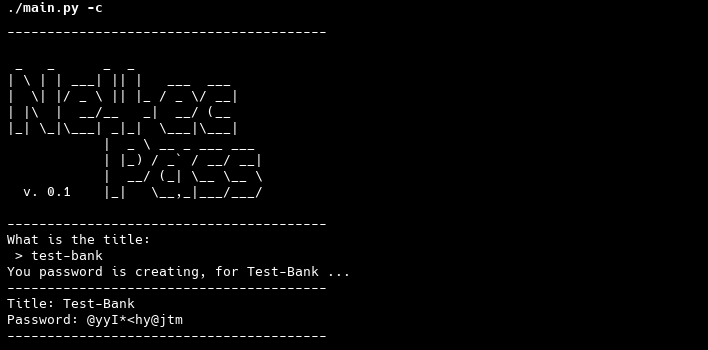
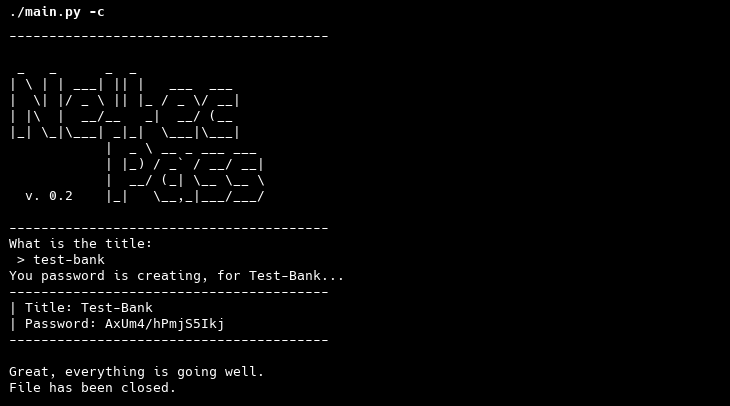
uploade v0.2

diff --git a/main.py b/main.py
@@ -1,64 +1,74 @@
 #!/bin/python3
  
 import random
-import time
-import sys
+from time import sleep
+import argparse
 
 from logo import logo
 from password_storage import *
 
-def show_option():
-    return r"""
-    SYNOPSIS 
-        ./main.py [OPTIONS]
-    
-    DISCRIPTION
-        Ne4ecPass is a simple password manager that stores entries as (Name, Password) pairs.
-        Data is stored in a basic backend (not encrypted)!
-        This project was created by Ne4ec as a hobby. For more info, visit: https://github.com/Ne4ec/Ne4ecPass
-        ⚠ IMPORTANT: Do *not* use this tool to store real passwords.
-        It lacks encryption and security measures. Use a trusted, professional password manager instead.
-    
-    OPTIONS
-        -a,    show all stored name and password pairs
-        -c,    create a new entry with specified name
-        -h,    show this help message and exit
-    """
-
 def display_view(content):
-    print(40 * '-')
-    print(f"{content}")
-    print(40 * '-')
+    return 40 * '-' + f"\n{content}\n" + 40 * '-'
     
-def password_generator():
+def password_generator(length=15): # default value, the user could change it
     ascii_characters = "ABCDEFGHIJKLMNOPQRSTUVWXYZabcdefghijklmnopqrstuvwxyz123456789!§$@€&/#*<>[]()"
     password = []
-    for _ in range(12):
+    for _ in range(length):
         password.append(random.choice(ascii_characters))
     
     return ''.join(password)
 
+def successful_commend():
+    print("\nGreat, everything is going well.\nFile has been closed.")
+
 if __name__ == "__main__":
+    parser = argparse.ArgumentParser(
+    description =(
+        "Ne4ecPass is a simple password manager that stores entries as (Name, Password) pairs. "
+        "Data is stored in a basic backend (not encrypted). "
+        "This project was created by Ne4ec as a hobby. For more info, visit: https://github.com/ne4ec/PassNe4ec\n\n"
+        "⚠ IMPORTANT: Do *not* use this tool to store real passwords. "
+        "It lacks encryption and security measures. Use a trusted, professional password manager instead."))
+    
+    parser.add_argument("-a", "--all", action="store_true", help="show all Stored name and password pairs")
+    parser.add_argument("-c", "--create", action="store_true", help="create a new entry with specified name")
+    parser.add_argument("-cp", "--count-password", action="store_true", help="Display the number of passwords stored in the backend")
+    parser.add_argument("-g", "--get-a-password", action="store_true", help="show password by the specified name")
 
-    display_view(logo)
-    user_option = sys.argv
+    print(display_view(logo))
 
-    if (len(user_option) != 2):
-        print(show_option())
-    else:
-        if user_option[1] == "-a":
-            with open("password_storage.py", 'r') as password_storage_file:
-                all_passwords = password_storage_file.read()
-                print(all_passwords)
-        elif user_option[1] == "-c":
-            with open("password_storage.py", 'a') as password_storage_file:
+    args = parser.parse_args()
+    if args.all:
+        print("Here are all the title and password pairs:\n" + 40 * '-')
+        
+        for pair in npm.password.items():
+            print(f"| {pair}")
+        print(40 * '-')
+        successful_commend()
+    elif args.create:
+        with open("password_storage.py", 'a') as password_storage_file:
+            while True:
                 title_of_new_password = input("What is the title:\n > ").title().strip()
-                print(f"You password is creating, for {title_of_new_password} ...")
-                generated_password = password_generator()
-                time.sleep(0.5)
-                password_storage_file.write(f"\nnpm.password['{title_of_new_password}'] = '{generated_password}'")
-                display_view(f"Title: {title_of_new_password}\nPassword: {generated_password}")
-        elif user_option[1] == "-h":
-            print(show_option())
-        else:
-            print(show_option())
+                if "'" in title_of_new_password or '"' in title_of_new_password:
+                    print("Please, don't the 2 following characters\n - '\n - \"  \nas input!")
+                    continue
+                elif title_of_new_password in npm.password:
+                    print("The title is already used!\nPlease use another title...\n" + 40 * '-' + "\n")
+                else:
+                    break
+            print(f"You password is creating, for {title_of_new_password}...")
+            generated_password = password_generator()
+            time.sleep(0.5)
+            password_storage_file.write(f"\nnpm.password[str('{title_of_new_password}')] = '{generated_password}'")
+            print(display_view(f"| Title: {title_of_new_password}\n| Password: {generated_password} "))
+            successful_commend()
+    elif args.get_a_password:
+        title = input("What is the title of the password you are looking for:\n > ").title().strip()
+        npm.get_one_password(title)
+        successful_commend()
+    elif args.count_password:
+        print(f"You have\n > {len(npm.password)} \npasswords stored in the backend.")
+        successful_commend()
+    else:
+        print("./main.py <options>\nUse -h for more help.")
+        successful_commend()

diff --git a/password_storage.py b/password_storage.py
@@ -3,15 +3,20 @@
 import time
 
 def display_get_one_password(title, passsword):
-    print(40 * '-')
-    print(f"Title: {title}")
-    print(f"Password: {passsword}")
-    print(40 * '-')
+    return 40 * '-' + f"\n| Title: {title}\n| Password: {passsword}\n" + 40 * '-'
 
 class Ne4ecPassManager():
     def __init__(self):
         self.password = {}
     
+    def get_one_password(self, title):
+        if title in self.password:
+            time.sleep(0.5)
+            print(display_get_one_password(title, self.password[title]))
+            #display_get_one_password
+        else:
+            print("Sorry, but the password isn't available...\nSee the all password by the name\n - ./main.py -a")
+
 npm = Ne4ecPassManager()
 
 ################### TITLE AND PASSWORDS-###################

diff --git a/logo.py b/logo.py
@@ -7,5 +7,5 @@ logo = r"""
             |  _ \ __ _ ___ ___    
             | |_) / _` / __/ __|   
             |  __/ (_| \__ \__ \   
-  v. 0.1    |_|   \__,_|___/___/   
+  v. 0.2    |_|   \__,_|___/___/   
 """

diff --git a/README.md b/README.md
@@ -1,4 +1,4 @@
-# Ne4ecPass v 1.0
+# Ne4ecPass version 0.2 
 ![creation_of_a_password_poc](https://github.com/Ne4ec/Ne4ecPass/blob/main/.poc/poc.png)<br>
 A CLI password manager, created with Python. It is for educational purposes only - do not use it as your default password manager! 
 ____
@@ -36,20 +36,20 @@ ____
 ## Usage
 A simple password manager that allows you to create a password and assign it a name.
 ```
-  SYNOPSIS 
-      ./main.py [OPTIONS]
-  
-  DISCRIPTION
-      Ne4ecPass is a simple password manager that stores entries as (Name, Password) pairs.
-      Data is stored in a basic backend (not encrypted)!
-      This project was created by Ne4ec as a hobby. For more info, visit: https://github.com/Ne4ec/Ne4ecPass
-      ⚠ IMPORTANT: Do *not* use this tool to store real passwords.
-      It lacks encryption and security measures. Use a trusted, professional password manager instead.
-  
-  OPTIONS
-      -h,    show this help message and exit
-      -a,    show all stored name and password pairs
-      -c,    create a new entry with specified name
+usage: main.py [-h] [-a] [-c] [-cp] [-g]
+
+Ne4ecPass is a simple password manager that stores entries as (Name, Password) pairs. Data is stored in a basic
+backend (not encrypted). This project was created by Ne4ec as a hobby. For more info, visit:
+https://github.com/ne4ec/PassNe4ec ⚠ IMPORTANT: Do *not* use this tool to store real passwords. It lacks
+encryption and security measures. Use a trusted, professional password manager instead.
+
+options:
+  -h, --help            show this help message and exit
+  -a, --all             show all Stored name and password pairs
+  -c, --create          create a new entry with specified name
+  -cp, --count-password
+                        Display the number of passwords stored in the backend
+  -g, --get-a-password  show password by the specified name
 ```
 **Warning**: This project is designed for learning purposes only. It is not intended for professional use and is suitable for school or study projects.
 ____
